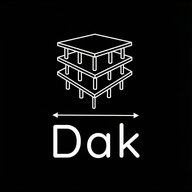
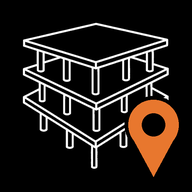
Nuevo ícono de la app: edificio DAK con pin de ubicación
El logo DAK con texto se mantiene en la pantalla de ingreso y en el informe impreso.

Changed region(s): [[0.0938, 0.0938, 0.9375, 0.9375]]

diff --git a/js/app.js b/js/app.js
@@ -164,7 +164,7 @@ function pantallaIngreso() {
   E.pantalla = 'ingreso';
   app.innerHTML = `
     <div class="ingreso"><div class="ingreso-tarjeta">
-      <img src="iconos/icono-192.png" alt="DAK" class="ingreso-logo">
+      <img src="iconos/logo-dak.png" alt="DAK" class="ingreso-logo">
       <h1>Visitas de inspección</h1>
       <p>Registro de hallazgos en campo con fotos ubicadas sobre el plano.</p>
       <button class="btn primario grande" id="b-google">Continuar con Google</button>
@@ -185,7 +185,7 @@ function pantallaNoAutorizado() {
     : 'Tu cuenta no está autorizada. Pide al administrador de DAK que la agregue a la lista de usuarios.';
   app.innerHTML = `
     <div class="ingreso"><div class="ingreso-tarjeta">
-      <img src="iconos/icono-192.png" alt="DAK" class="ingreso-logo">
+      <img src="iconos/logo-dak.png" alt="DAK" class="ingreso-logo">
       <h1>Acceso restringido</h1>
       <p><b>${esc(E.usuario.email)}</b></p>
       <p>${msg}</p>

diff --git a/sw.js b/sw.js
@@ -6,13 +6,13 @@
 //  - Firestore y el ingreso con Google no pasan por aquí.
 // ─────────────────────────────────────────────
 
-const CACHE = 'dak-visitas-v1';
+const CACHE = 'dak-visitas-v2';
 const CACHE_CDN = 'dak-visitas-cdn-v1';
 const BASE = [
   './', 'index.html', 'styles.css', 'manifest.webmanifest', 'firebase-config.js',
   'js/app.js', 'js/nube.js', 'js/almacen.js', 'js/util.js', 'js/catalogos.js',
   'js/imagenes.js', 'js/plano.js', 'js/exportar.js',
-  'iconos/icono-96.png', 'iconos/icono-192.png', 'iconos/icono-512.png'
+  'iconos/icono-96.png', 'iconos/icono-192.png', 'iconos/icono-512.png', 'iconos/logo-dak.png'
 ];
 const CDN = ['https://www.gstatic.com/firebasejs/', 'https://cdn.jsdelivr.net/npm/pdfjs-dist@'];
 

diff --git a/js/exportar.js b/js/exportar.js
@@ -285,7 +285,7 @@ export async function abrirVistaImpresion(ctx, progreso = () => {}) {
     </div>
     <article class="imp-doc">
       <header class="imp-cab">
-        <img src="iconos/icono-96.png" alt="DAK" class="imp-logo">
+        <img src="iconos/logo-dak.png" alt="DAK" class="imp-logo">
         <div><h1>Registro de visita de inspección</h1><p>${esc(p.nombre)}</p></div>
       </header>
       <table class="imp-ficha">
